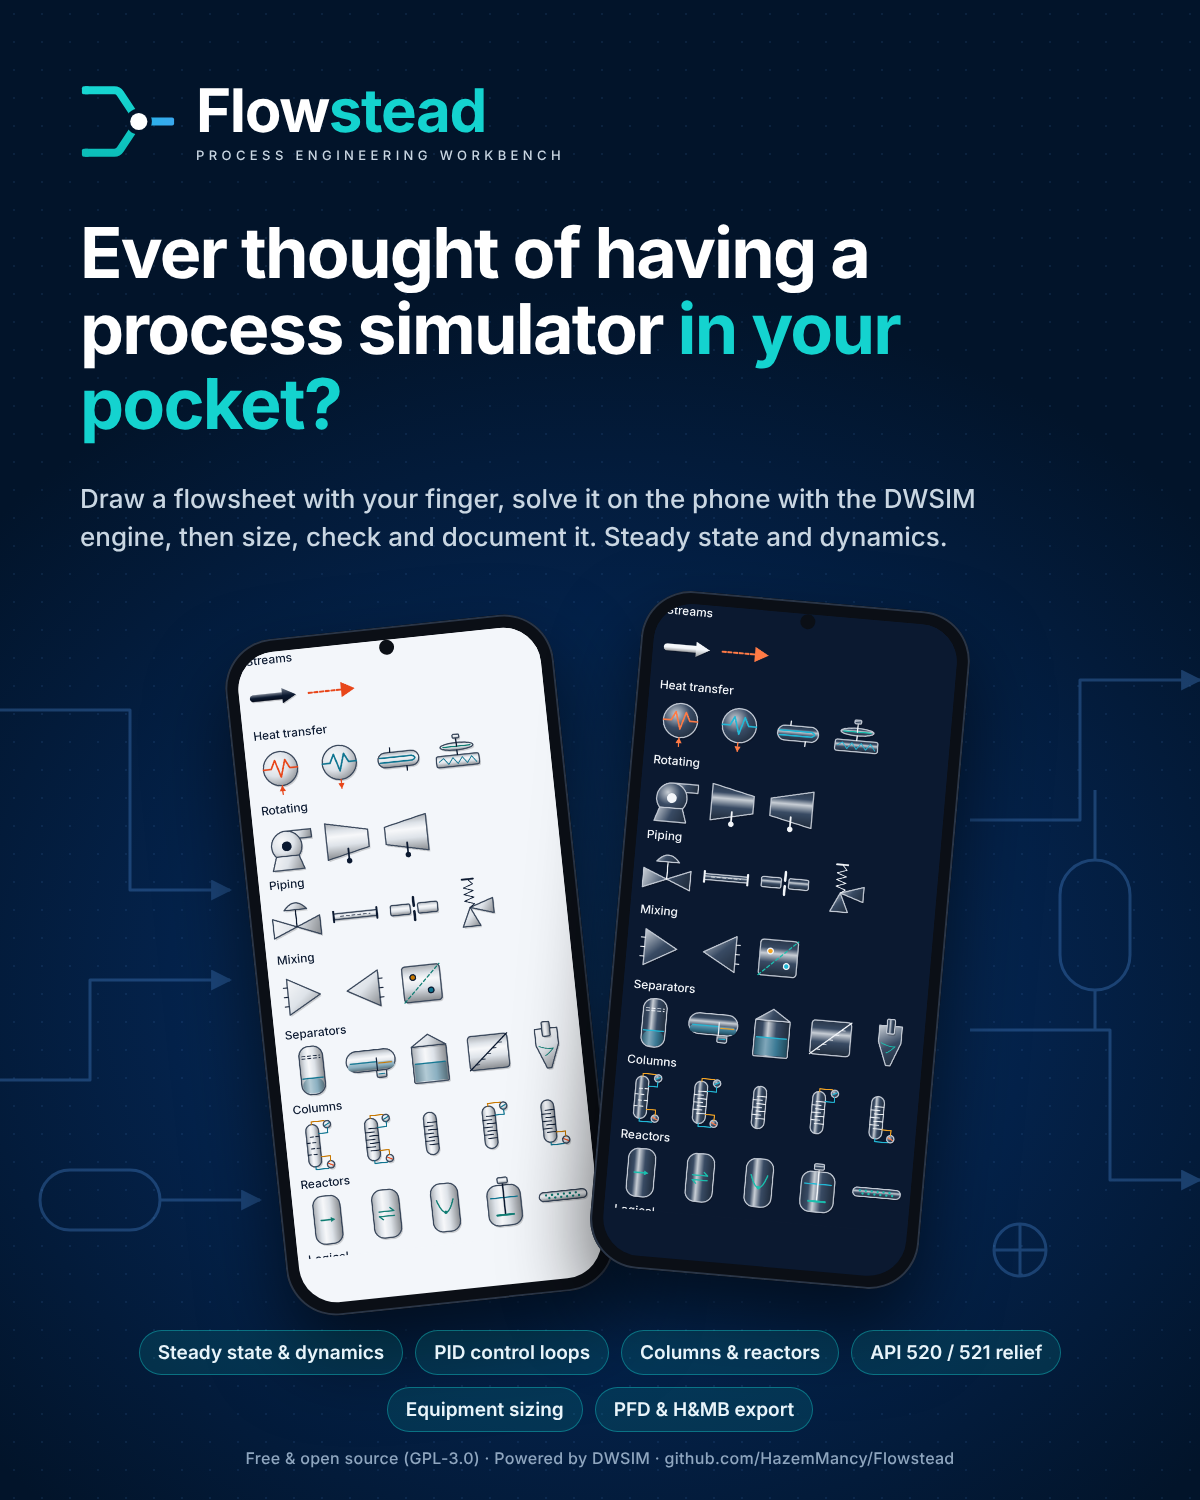
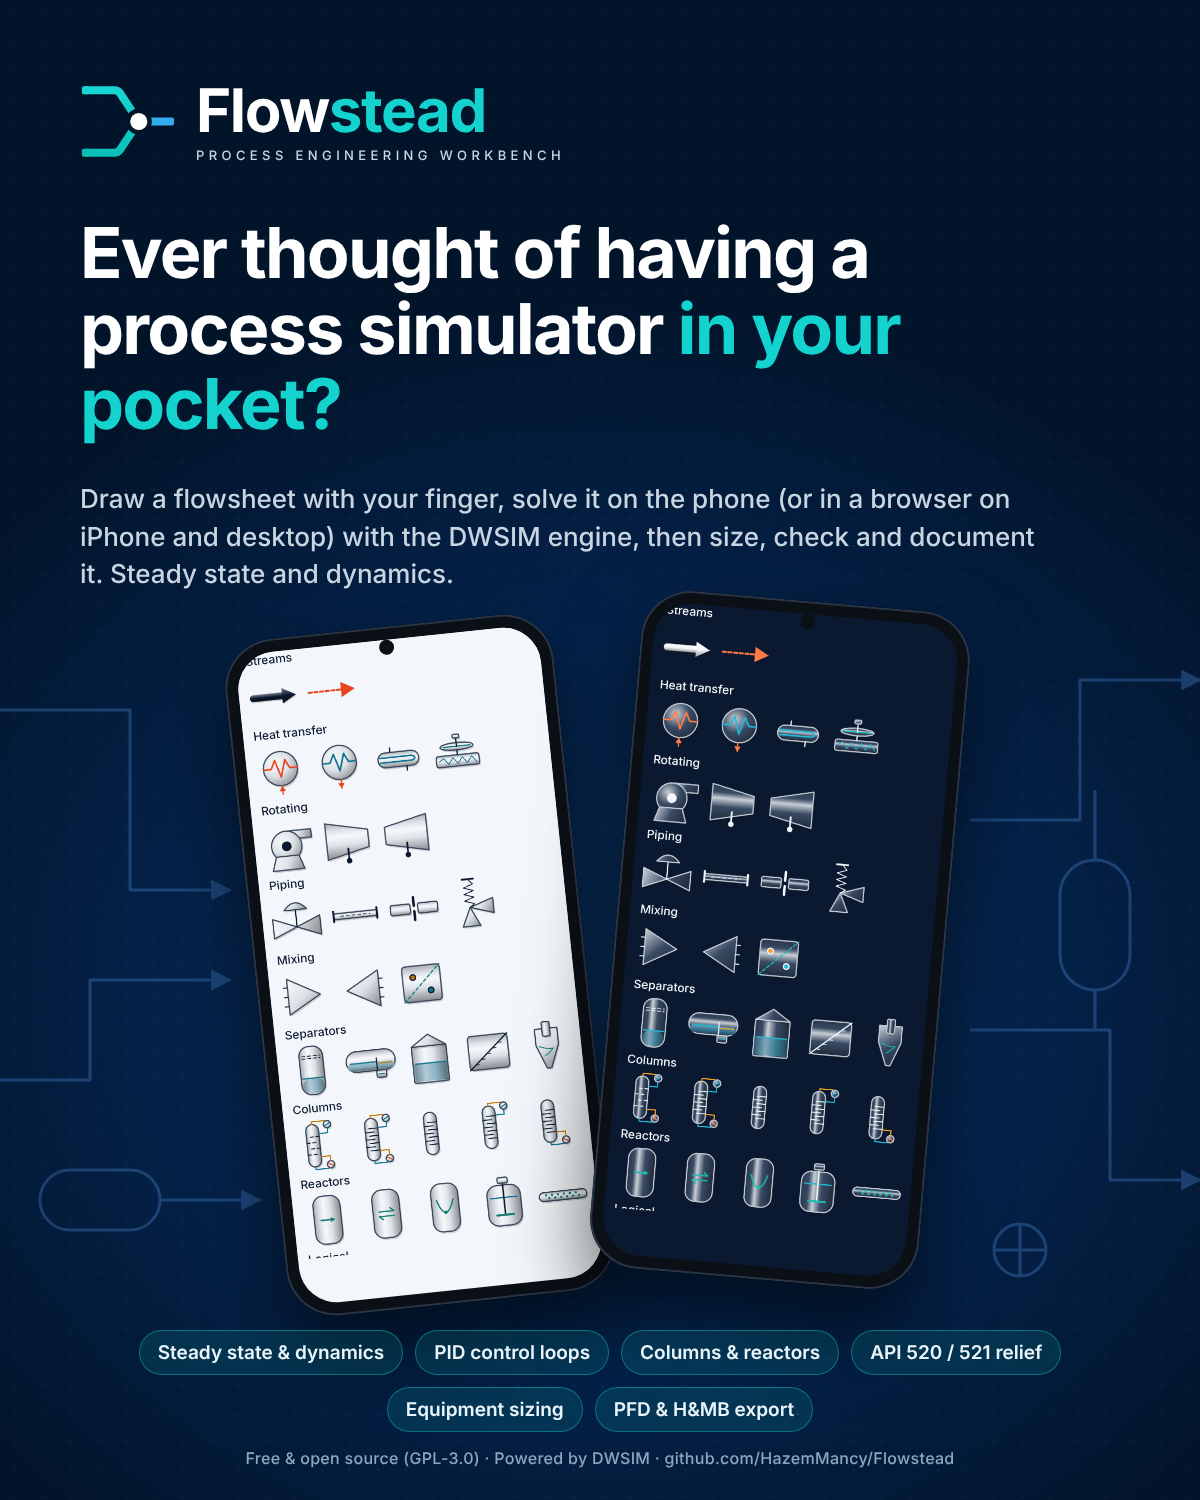
LinkedIn: tagline and About text, images and README mention the web version
Claude-Session: https://claude.ai/code/session_01HZRB96Aqg1V3VJki8fwms8

Changed region(s): [[0.0617, 0.3067, 0.8633, 0.3987]]

diff --git a/docs/linkedin/src/post-pocket.html b/docs/linkedin/src/post-pocket.html
@@ -48,7 +48,7 @@ h1 span{color:#14D3CF}
   <div><div class="name">Flow<span>stead</span></div><div class="sub">PROCESS ENGINEERING WORKBENCH</div></div>
 </div>
 <h1>Ever thought of having a process simulator <span>in your pocket?</span></h1>
-<div class="lead">Draw a flowsheet with your finger, solve it on the phone with the DWSIM engine, then size, check and document it. Steady state and dynamics.</div>
+<div class="lead">Draw a flowsheet with your finger, solve it on the phone (or in a browser on iPhone and desktop) with the DWSIM engine, then size, check and document it. Steady state and dynamics.</div>
 <div class="phone p1"><div class="notch"></div><div class="scr"><img src="screen-symbols-light.png"></div></div>
 <div class="phone p2"><div class="notch"></div><div class="scr"><img src="screen-symbols-dark.png"></div></div>
 <div class="chips">

diff --git a/docs/linkedin/src/featured.html b/docs/linkedin/src/featured.html
@@ -34,7 +34,7 @@ h1 span{color:#14D3CF}
   <div><div class="name">Flow<span>stead</span></div><div class="sub">PROCESS ENGINEERING WORKBENCH</div></div>
 </div>
 <h1>Steady-state process simulation, <span>in your pocket.</span></h1>
-<div class="lead">An open-source Android app for process engineers: build a flowsheet, solve it on the phone with the DWSIM engine, then size, check and document it.</div>
+<div class="lead">An open-source app for process engineers, on Android and in any browser: build a flowsheet, solve it with the DWSIM engine, then size, check and document it.</div>
 <div class="chips">
   <div class="chip">Flowsheets &amp; solver</div><div class="chip">Columns &amp; reactors</div>
   <div class="chip">API 520 / 521 relief</div><div class="chip">Equipment sizing</div>

diff --git a/docs/linkedin/page-text.md b/docs/linkedin/page-text.md
@@ -1,0 +1,33 @@
+# LinkedIn page text
+
+Paste into the page's edit dialog. LinkedIn's limits: tagline 120 characters, About 2,000.
+
+## Tagline (106 characters)
+
+Open-source process simulator for Android and the web, built on DWSIM. Flowsheets, relief and line sizing.
+
+## About (1645 characters)
+
+Flowstead is a free, open-source process simulator for process engineers. It runs on Android phones and, since November 2026, in any browser (iPhone, iPad, desktop) with nothing to install: the web version runs the same engine on your own device, with no server, and nothing you type leaves it.
+
+Every number comes from the DWSIM 10.2.12 engine. Flowstead never shows a value the engine did not return, and each result is checked in a test against an independent reference: a hand calculation, steam tables, the standard's worked example, or a HYSYS value.
+
+What you can do with it
+• Build and solve steady-state and dynamic flowsheets: separators, compressor and cooler trains, valves, pipelines (Beggs & Brill), columns, reactors, recycles and PID control.
+• Pump and compressor curves, valve sizing (IEC 60534), exchanger zone analysis, line and separator sizing (API 14E).
+• Phase envelopes with quality lines, hydrate curves and inhibitor doses, wet-gas water dew lines, and a PVT laboratory.
+• Safety: PSV sizing (API 520/526), relief scenarios and depressuring (API 521), inlet-loss and back-pressure checks. The fire-case PSV of a wet air receiver reproduces the HYSYS orifice.
+• Data sheets, PFD and heat and material balances as PDF or Excel.
+
+Android: signed APKs on GitHub Releases (43 releases so far). Web: https://hazemmancy.github.io/Flowstead/flowsheet.html
+Source (GPL-3.0): https://github.com/HazemMancy/Flowstead
+
+Created and maintained by Hazem ElMancy, Oil & Gas Process Engineer, Aspen HYSYS Certified Expert User. Flowstead is a screening and checking tool: confirm design results against your project's approved methods.
+
+## Website field
+
+https://hazemmancy.github.io/flowstead.html
+
+## Images
+
+`cover-4200x700.png` (cover), `logo-400.png` (logo), `featured-1200x627.png` (profile Featured link), `post-pocket-1200x1500.png` (feed post). `featured` and `post-pocket` now mention the browser version.

diff --git a/README.md b/README.md
@@ -7,7 +7,7 @@ Developed by Hazem ElMancy.
 
 **No Android? [Use Flowstead in your browser →](https://hazemmancy.github.io/Flowstead/)** The same DWSIM engine, running on your device as WebAssembly (`web/`, D108).
 
-Flowstead is an Android app for building, solving and checking process
+Flowstead is an Android app (and a browser version, for iPhone, iPad and desktop) for building, solving and checking process
 flowsheets on a phone: flashes, separators, compressor and cooler trains, valve
 letdowns, pipelines, recycle loops, columns and reactors, in steady state and,
 since 2.0, through time with PID control. Every calculation runs
